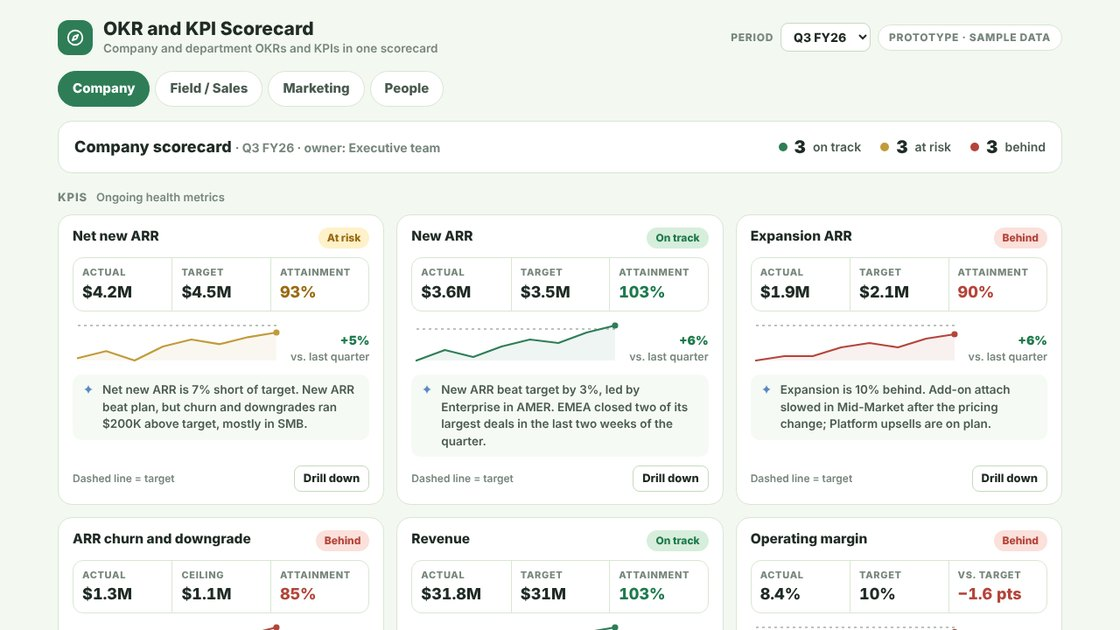
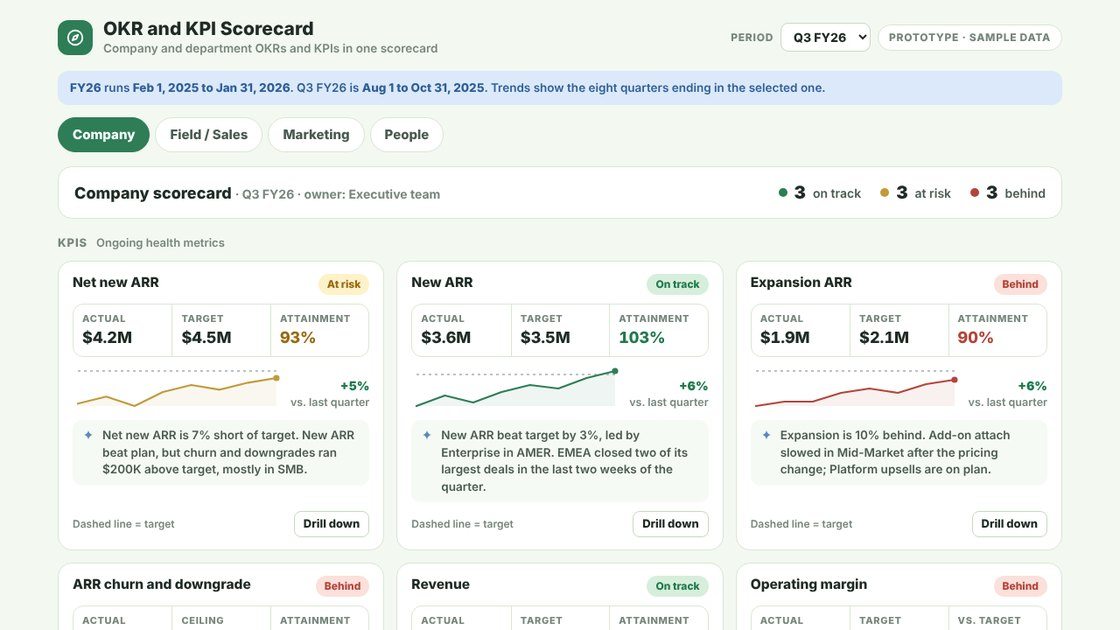
Note the FY26 calendar; phase monthly targets by days in quarter
Both prototypes now state FY26 runs Feb 1, 2025 to Jan 31, 2026. Pipeline
targeting splits each quarter by days in month / days in quarter, shows
each period's start and end dates on every row (and in the CSV), and adds
an All grains view that lists annual, quarterly, and monthly rows together.

Claude-Session: https://claude.ai/code/session_012KZoca3tAZxyi3oCaJbwMw

diff --git a/pipeline-targets.html b/pipeline-targets.html
@@ -82,6 +82,11 @@ tr.l-region td{font-weight:800}
 .agrid{display:grid;grid-template-columns:repeat(4,minmax(0,1fr));gap:14px}
 .inrow input{width:72px!important}
 tr.pstart td{border-top:2px solid var(--line-2)}
+td .dt{display:block;font-size:11.5px;color:var(--ink-3);font-weight:600}
+.fy{background:var(--info-soft);color:var(--info);border-radius:12px;padding:9px 14px;font-size:13.5px;margin:0 0 14px}
+.fy b{font-weight:800}
+table.ph{font-size:13px;width:100%} table.ph th,table.ph td{padding:5px 6px} table.ph tr.qh td{background:#F5FAF2;font-weight:800;font-size:12px;color:var(--ink-2)}
+.box .tw,.box table.ph{border:0}
 .box{border:1px solid var(--line);border-radius:14px;padding:14px}
 .box h3{font-size:15px;font-weight:800;margin-bottom:2px}
 .box p{font-size:13px;color:var(--ink-3);margin-bottom:10px}
@@ -122,6 +127,7 @@ tr.pstart td{border-top:2px solid var(--line-2)}
     <button class="step on" data-v="output"><small>Output view</small><b>GTM.PIPE_TARGETS</b><span>By month and quarter</span></button>
   </nav>
 
+  <p class="fy"><b>FY26</b> runs <b>Feb 1, 2025 to Jan 31, 2026</b>. Q1 Feb to Apr · Q2 May to Jul · Q3 Aug to Oct · Q4 Nov to Jan.</p>
   <div class="formula" aria-label="Formula">
     <span class="lbl">Pipe target</span><span class="op">=</span>
     <span class="term t1">Quota</span><span class="op">×</span>
@@ -134,9 +140,9 @@ tr.pstart td{border-top:2px solid var(--line-2)}
   <!-- OUTPUT -->
   <section class="panel" id="v-output">
     <div class="ph">
-      <div><h2>GTM.PIPE_TARGETS</h2><p>One row per period and aggregation level for FY26 (Feb 2025 to Jan 2026). Pick a monthly, quarterly, or annual grain. Managers, regions, theaters, and the company roll up from rep-level targets.</p></div>
+      <div><h2>GTM.PIPE_TARGETS</h2><p>One row per time period and aggregation level for the full fiscal year. Pick a monthly, quarterly, or annual grain. Managers, regions, theaters, and the company roll up from rep-level targets.</p></div>
       <div class="controls">
-        <select class="inline" id="fGrain" aria-label="Time grain"><option value="quarter">Quarterly</option><option value="month">Monthly</option><option value="year">Annual</option></select>
+        <select class="inline" id="fGrain" aria-label="Time grain"><option value="quarter">Quarterly</option><option value="month">Monthly</option><option value="year">Annual</option><option value="all">All grains</option></select>
         <select class="inline" id="fPeriod" aria-label="Period"></select>
         <select class="inline" id="fLevel" aria-label="Aggregation level"><option value="">All levels</option><option value="company">Company</option><option value="theater">Theater</option><option value="region">Region</option><option value="manager">Manager</option><option value="rep">Rep</option></select>
         <select class="inline" id="fTheater" aria-label="Theater"><option value="">All theaters</option><option>AMER</option><option>EMEA</option><option>APAC</option></select>
@@ -162,7 +168,7 @@ tr.pstart td{border-top:2px solid var(--line-2)}
       <div class="box"><h3>Coverage by segment</h3><p>Pipeline needed per $1 of quota.</p><div id="covIn"></div></div>
       <div class="box"><h3>Product mix</h3><p>Share of pipeline by product. Must total 100%.</p><div id="mixIn"></div><div class="sum" id="mixSum"></div></div>
       <div class="box"><h3>Theater mix</h3><p>Adjusts for conversion differences by theater.</p><div id="thIn"></div></div>
-      <div class="box"><h3>Monthly phasing</h3><p>How each quarter's target splits across its three months. Must total 100%.</p><div id="phIn"></div><div class="sum" id="phSum"></div></div>
+      <div class="box"><h3>Monthly phasing</h3><p>Each month gets its share of the quarter by number of days.</p><div id="phIn"></div></div>
     </div>
   </section>
 
@@ -196,16 +202,23 @@ const REPS = ORG.flatMap(g => g.reps.map(r => {
   return {name:r[0], segment:r[1], q, fy:q.reduce((a,b)=>a+b,0), manager:g.manager, region:g.region, theater:g.theater};
 }));
 const PRODUCTS = ['Platform','Add-ons','Services'];
-const MONTHS = ['Feb 2025','Mar 2025','Apr 2025','May 2025','Jun 2025','Jul 2025','Aug 2025','Sep 2025','Oct 2025','Nov 2025','Dec 2025','Jan 2026'];
-const DEFAULTS = {cov:{Enterprise:3.5,'Mid-Market':3.0,SMB:2.5,Default:3.0}, mix:{Platform:60,'Add-ons':25,Services:15}, th:{AMER:1.00,EMEA:1.10,APAC:1.20}, ph:{'Month 1':30,'Month 2':33,'Month 3':37}};
+/* FY26 fiscal calendar: Feb 1, 2025 to Jan 31, 2026 */
+const MONTHS = [
+  ['Feb 2025','2025-02-01','2025-02-28',28],['Mar 2025','2025-03-01','2025-03-31',31],['Apr 2025','2025-04-01','2025-04-30',30],
+  ['May 2025','2025-05-01','2025-05-31',31],['Jun 2025','2025-06-01','2025-06-30',30],['Jul 2025','2025-07-01','2025-07-31',31],
+  ['Aug 2025','2025-08-01','2025-08-31',31],['Sep 2025','2025-09-01','2025-09-30',30],['Oct 2025','2025-10-01','2025-10-31',31],
+  ['Nov 2025','2025-11-01','2025-11-30',30],['Dec 2025','2025-12-01','2025-12-31',31],['Jan 2026','2026-01-01','2026-01-31',31]
+].map(m => ({label:m[0], start:m[1], end:m[2], days:m[3]}));
+const QDAYS = [0,1,2,3].map(q => MONTHS.slice(q*3, q*3+3).reduce((a,m)=>a+m.days,0));
+const DEFAULTS = {cov:{Enterprise:3.5,'Mid-Market':3.0,SMB:2.5,Default:3.0}, mix:{Platform:60,'Add-ons':25,Services:15}, th:{AMER:1.00,EMEA:1.10,APAC:1.20}};
 let A = JSON.parse(JSON.stringify(DEFAULTS));
 
 /* periods: each has a label and a function returning a rep's quota for it */
 function periods(grain){
-  if (grain==='year') return [{id:'FY26', label:'FY26', quota:r=>r.fy}];
-  if (grain==='quarter') return [0,1,2,3].map(i => ({id:'Q'+(i+1), label:'Q'+(i+1)+' FY26', quota:r=>r.q[i]}));
-  const ph = Object.values(A.ph);
-  return MONTHS.map((m,i) => ({id:'M'+(i+1), label:m, sub:'Q'+(Math.floor(i/3)+1), quota:r=>r.q[Math.floor(i/3)]*ph[i%3]/100}));
+  if (grain==='all') return [...periods('year'), ...periods('quarter'), ...periods('month')];
+  if (grain==='year') return [{id:'FY26', label:'FY26', start:'2025-02-01', end:'2026-01-31', quota:r=>r.fy}];
+  if (grain==='quarter') return [0,1,2,3].map(i => ({id:'Q'+(i+1), label:'Q'+(i+1)+' FY26', start:MONTHS[i*3].start, end:MONTHS[i*3+2].end, quota:r=>r.q[i]}));
+  return MONTHS.map((m,i) => { const q=Math.floor(i/3); return {id:'M'+(i+1), label:m.label, start:m.start, end:m.end, quota:r=>r.q[q]*m.days/QDAYS[q]}; });
 }
 
 /* ------------ helpers ------------ */
@@ -222,8 +235,9 @@ function repTargets(r, quota){
   PRODUCTS.forEach(p => { by[p] = quota * cov * (A.mix[p]/100) * th; total += by[p]; });
   return {by, total};
 }
-const GRAIN_LBL = {month:'Monthly', quarter:'Quarterly', year:'Annual'};
+const GRAIN_LBL = {month:'Monthly', quarter:'Quarterly', year:'Annual', all:'All'};
 function buildRows(grain){
+  if (grain==='all') return [...buildRows('year'), ...buildRows('quarter'), ...buildRows('month')];
   const rows = [];
   periods(grain).forEach(per => {
     const add = (level, name, parent, theater, reps, extra={}) => {
@@ -231,7 +245,7 @@ function buildRows(grain){
       const t = reps.map(r => repTargets(r, per.quota(r)));
       const by = {}; PRODUCTS.forEach(p => by[p] = t.reduce((s,x)=>s+x.by[p],0));
       const total = t.reduce((s,x)=>s+x.total,0);
-      rows.push(Object.assign({grain:GRAIN_LBL[grain], period:per.label, pid:per.id, level, name, parent, theater, quota, total, by, cov: quota? total/quota : 0}, extra));
+      rows.push(Object.assign({grain:GRAIN_LBL[grain], period:per.label, pid:per.id, start:per.start, end:per.end, level, name, parent, theater, quota, total, by, cov: quota? total/quota : 0}, extra));
     };
     add('company','All GTM','','Global', REPS);
     ['AMER','EMEA','APAC'].forEach(th => {
@@ -245,6 +259,7 @@ function buildRows(grain){
   });
   return rows;
 }
+const fmtDate = d => { const [y,m,dd]=d.split('-'); return ['Jan','Feb','Mar','Apr','May','Jun','Jul','Aug','Sep','Oct','Nov','Dec'][+m-1]+' '+(+dd)+', '+y; };
 const IND = {company:'', theater:'', region:'ind1', manager:'ind2', rep:'ind3'};
 const LVL = {company:'Company', theater:'Theater', region:'Region', manager:'Manager', rep:'Rep'};
 
@@ -264,7 +279,7 @@ function renderOutput(){
   $('#outBody').innerHTML = rows.map(r => {
     const first = r.period !== last; last = r.period;
     return `<tr class="l-${r.level}${first?' pstart':''}">
-    <td>${esc(r.period)}</td>
+    <td><b>${esc(r.period)}</b><span class="dt">${fmtDate(r.start)} – ${fmtDate(r.end)}</span></td>
     <td><span class="lv lv-${r.level}">${LVL[r.level]}</span></td>
     <td class="${flat?'':IND[r.level]}">${esc(r.name)}${r.usedDefault?'<span class="flag" title="Segment missing in quota sheet">default coverage</span>':''}</td>
     <td>${esc(r.parent)}</td>
@@ -272,7 +287,7 @@ function renderOutput(){
     ${PRODUCTS.map(p=>`<td class="num">${money(r.by[p])}</td>`).join('')}</tr>`;
   }).join('') || '<tr><td colspan="10" style="color:var(--ink-3)">No rows match these filters.</td></tr>';
   const fy = buildRows('year')[0], np = periods(g).length;
-  $('#outMeta').innerHTML = `<span>${GRAIN_LBL[g]} grain: ${np} period${np>1?'s':''} × 34 rows = ${all.length} rows (showing ${rows.length})</span><span>FY26 company pipe target <b style="color:var(--ink)">${money(fy.total)}</b> on ${money(fy.quota)} quota</span><span>${REPS.filter(r=>!r.segment).length} reps used default coverage</span>`;
+  $('#outMeta').innerHTML = `<span>${g==='all'?'All grains (annual, quarterly, monthly)':GRAIN_LBL[g]+' grain'}: ${np} period${np>1?'s':''} × 34 rows = ${all.length} rows (showing ${rows.length})</span><span>FY26 company pipe target <b style="color:var(--ink)">${money(fy.total)}</b> on ${money(fy.quota)} quota</span><span>${REPS.filter(r=>!r.segment).length} reps used default coverage</span>`;
   window._rows = rows;
 }
 function renderInput(){
@@ -285,7 +300,8 @@ function renderAssume(){
   $('#covIn').innerHTML = Object.entries(A.cov).map(([k,v])=>inputRow('cov',k,v,0.1,'x')).join('');
   $('#mixIn').innerHTML = Object.entries(A.mix).map(([k,v])=>inputRow('mix',k,v,1,'%')).join('');
   $('#thIn').innerHTML = Object.entries(A.th).map(([k,v])=>inputRow('th',k,v.toFixed(2),0.05,'×')).join('');
-  $('#phIn').innerHTML = Object.entries(A.ph).map(([k,v])=>inputRow('ph',k,v,1,'%')).join('');
+  $('#phIn').innerHTML = '<table class="ph"><thead><tr><th>Month</th><th class="num">Days</th><th class="num">Share</th></tr></thead><tbody>' +
+    MONTHS.map((m,i)=>{ const q=Math.floor(i/3); return `${i%3===0?`<tr class="qh"><td colspan="3">Q${q+1} FY26 · ${QDAYS[q]} days</td></tr>`:''}<tr><td>${m.label}</td><td class="num">${m.days}</td><td class="num">${(m.days/QDAYS[q]*100).toFixed(1)}%</td></tr>`; }).join('') + '</tbody></table>';
   sumCheck();
   document.querySelectorAll('.box input').forEach(i => i.oninput = () => {
     const v = parseFloat(i.value); if (isNaN(v) || v<0) return;
@@ -293,26 +309,25 @@ function renderAssume(){
   });
 }
 function sumCheck(){
-  [['mix','#mixSum','targets add up to the full coverage amount'],['ph','#phSum','months add up to the quarter']].forEach(([g,id,why]) => {
-    const s = Object.values(A[g]).reduce((a,b)=>a+b,0);
-    $(id).innerHTML = s===100 ? '<span class="ok">Total 100% ✓</span>' : `<span class="bad">Total ${s}%. Adjust to 100% so ${why}.</span>`;
-  });
+  const t = Object.values(A.mix).reduce((a,b)=>a+b,0);
+  $('#mixSum').innerHTML = t===100 ? '<span class="ok">Total 100% ✓</span>' : `<span class="bad">Total ${t}%. Adjust to 100% so targets add up to the full coverage amount.</span>`;
 }
 function renderSql(){
-  const c=A.cov, m=A.mix, t=A.th, p=Object.values(A.ph);
-  $('#sqlPre').innerHTML = `<span class="cm">-- GTM.PIPE_TARGETS: pipeline targets by time grain, period, and aggregation level (FY26)</span>
+  const c=A.cov, m=A.mix, t=A.th;
+  $('#sqlPre').innerHTML = `<span class="cm">-- GTM.PIPE_TARGETS: pipeline targets by time grain, period, and aggregation level</span>
+<span class="cm">-- FY26 runs Feb 1, 2025 to Jan 31, 2026 (Q1 Feb-Apr, Q2 May-Jul, Q3 Aug-Oct, Q4 Nov-Jan)</span>
 <span class="kw">create or replace view</span> GTM.PIPE_TARGETS <span class="kw">as</span>
 <span class="kw">with</span> quarterly_quota <span class="kw">as</span> (           <span class="cm">-- Anaplan export via Google Sheets, one column per quarter</span>
   <span class="kw">select</span> rep_name, manager, region, theater, segment, fiscal_quarter, quota
   <span class="kw">from</span> RAW.QUOTA_SHEET
   <span class="kw">unpivot</span> (quota <span class="kw">for</span> fiscal_quarter <span class="kw">in</span> (q1_quota <span class="kw">as</span> <span class="st">'Q1'</span>, q2_quota <span class="kw">as</span> <span class="st">'Q2'</span>, q3_quota <span class="kw">as</span> <span class="st">'Q3'</span>, q4_quota <span class="kw">as</span> <span class="st">'Q4'</span>))
 ),
-monthly_quota <span class="kw">as</span> (             <span class="cm">-- month phasing within the quarter: ${p[0]}% / ${p[1]}% / ${p[2]}%</span>
+monthly_quota <span class="kw">as</span> (             <span class="cm">-- phase each quarter by days in month ÷ days in quarter</span>
   <span class="kw">select</span> q.rep_name, q.manager, q.region, q.theater, q.segment, q.fiscal_quarter,
-         c.fiscal_month, q.quota * ph.pct <span class="kw">as</span> quota
+         c.fiscal_month, c.month_start, c.month_end,
+         q.quota * c.days_in_month / c.days_in_quarter <span class="kw">as</span> quota
   <span class="kw">from</span> quarterly_quota q
-  <span class="kw">join</span> CONFIG.FISCAL_CALENDAR c <span class="kw">on</span> c.fiscal_year = <span class="st">'FY26'</span> <span class="kw">and</span> c.fiscal_quarter = q.fiscal_quarter
-  <span class="kw">join</span> CONFIG.MONTH_PHASING ph  <span class="kw">on</span> ph.month_of_quarter = c.month_of_quarter
+  <span class="kw">join</span> CONFIG.FISCAL_CALENDAR c <span class="kw">on</span> c.fiscal_year = <span class="st">'FY26'</span> <span class="kw">and</span> c.fiscal_quarter = q.fiscal_quarter  <span class="cm">-- FY26 = Feb 1, 2025 to Jan 31, 2026</span>
 ),
 rep_targets <span class="kw">as</span> (
   <span class="kw">select</span> mq.*, pm.product,
@@ -356,8 +371,8 @@ $('#fGrain').onchange = () => { $('#fPeriod').value=''; fillPeriods(); renderOut
 $('#fSearch').oninput = renderOutput;
 $('#reset').onclick = () => { A = JSON.parse(JSON.stringify(DEFAULTS)); renderAssume(); renderSql(); toast('Target rules reset'); };
 $('#csv').onclick = () => {
-  const head = ['time_grain','period','aggregation_level','name','parent','theater','quota','coverage','pipe_target',...PRODUCTS.map(p=>'pipe_'+p.toLowerCase().replace(/[^a-z]/g,''))];
-  const lines = [head.join(',')].concat(window._rows.map(r => [r.grain, r.period, LVL[r.level], r.name, r.parent, r.theater, Math.round(r.quota), r.cov.toFixed(2), Math.round(r.total), ...PRODUCTS.map(p=>Math.round(r.by[p]))].map(v => /[",]/.test(String(v)) ? '"'+String(v).replace(/"/g,'""')+'"' : v).join(',')));
+  const head = ['time_grain','period','period_start','period_end','aggregation_level','name','parent','theater','quota','coverage','pipe_target',...PRODUCTS.map(p=>'pipe_'+p.toLowerCase().replace(/[^a-z]/g,''))];
+  const lines = [head.join(',')].concat(window._rows.map(r => [r.grain, r.period, r.start, r.end, LVL[r.level], r.name, r.parent, r.theater, Math.round(r.quota), r.cov.toFixed(2), Math.round(r.total), ...PRODUCTS.map(p=>Math.round(r.by[p]))].map(v => /[",]/.test(String(v)) ? '"'+String(v).replace(/"/g,'""')+'"' : v).join(',')));
   const url = URL.createObjectURL(new Blob([lines.join('\n')], {type:'text/csv'}));
   const a = document.createElement('a'); a.href = url; a.download = 'pipe_targets_fy26_' + $('#fGrain').value + '.csv'; document.body.appendChild(a); a.click(); a.remove(); setTimeout(()=>URL.revokeObjectURL(url), 1000);
   toast('Downloaded ' + a.download);

diff --git a/okr-kpi-scorecard.html b/okr-kpi-scorecard.html
@@ -34,6 +34,8 @@ select.inline{border:1px solid var(--line-2);border-radius:9px;padding:6px 10px;
 .btn:hover{background:var(--tint)}
 .btn.sm{padding:4px 10px;font-size:13px;border-radius:8px}
 
+.fy{background:#DCE9FA;color:#2F5E99;border-radius:12px;padding:9px 14px;font-size:13.5px;margin:0 0 14px}
+.fy b{font-weight:800}
 .tabs{display:flex;gap:6px;overflow-x:auto;padding-bottom:2px;margin-bottom:14px}
 .tab{flex:none;border:1px solid var(--line);background:var(--surface);border-radius:999px;padding:8px 16px;cursor:pointer;font-weight:800;color:var(--ink-2)}
 .tab[aria-selected="true"]{background:var(--accent-2);border-color:var(--accent-2);color:#fff}
@@ -115,6 +117,7 @@ select.inline{border:1px solid var(--line-2);border-radius:9px;padding:6px 10px;
     <div class="topr"><label class="chip" for="period" style="border:0;background:none;padding:0">Period</label><select class="inline" id="period"><option value="q3">Q3 FY26</option><option value="q2">Q2 FY26</option></select><span class="chip">Prototype · sample data</span></div>
   </header>
 
+  <p class="fy" id="fyNote"></p>
   <nav class="tabs" role="tablist" id="tabs"></nav>
   <section class="summary" id="summary"></section>
   <div id="body"></div>
@@ -310,7 +313,9 @@ function drillHtml(m){
     <div class="legend"><span><i class="dot" style="background:#2E7D57"></i>On track</span><span><i class="dot" style="background:#C29A3A"></i>At risk (92-99%)</span><span><i class="dot" style="background:#B4443A"></i>Behind (under 92%)</span></div>
   </section>`;
 }
-$('#period').onchange = e => { period = e.target.value; render(); };
+function fyNote(){ $('#fyNote').innerHTML = '<b>FY26</b> runs <b>Feb 1, 2025 to Jan 31, 2026</b>. ' + (period==='q3' ? 'Q3 FY26 is <b>Aug 1 to Oct 31, 2025</b>.' : 'Q2 FY26 is <b>May 1 to Jul 31, 2025</b>.') + ' Trends show the eight quarters ending in the selected one.'; }
+$('#period').onchange = e => { period = e.target.value; fyNote(); render(); };
+fyNote();
 render();
 </script>
 </body>
